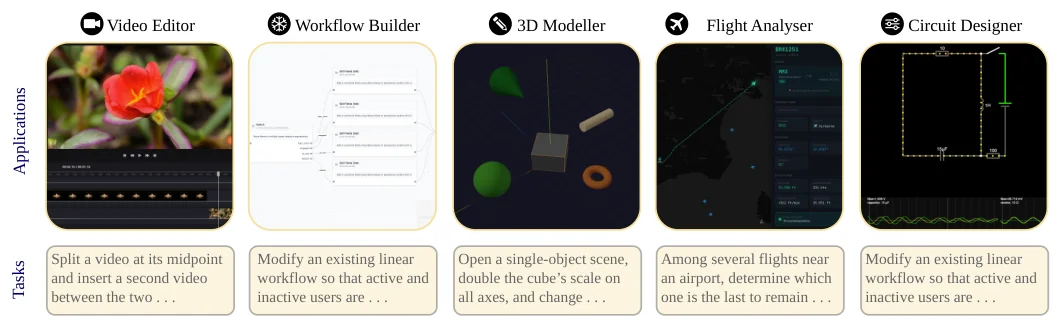
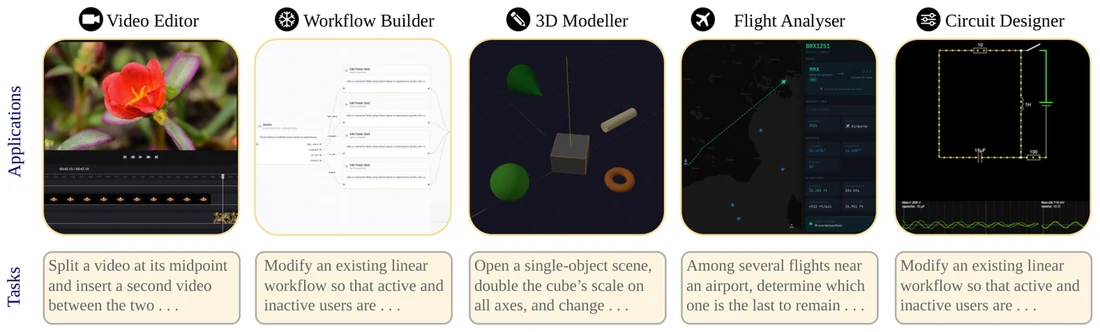
Replace thumbnail popups with whole paper figures
Each paper now shows one complete figure, rendered from the PDF at 300 dpi
and drawn at its natural shape (no cropping). The TL;DR popups and the
script behind them are gone.

diff --git a/index.html b/index.html
@@ -20,7 +20,6 @@
   <link rel="icon" href="assets/img/favicon-32.png" sizes="32x32" type="image/png">
   <link rel="apple-touch-icon" href="assets/img/apple-touch-icon.png">
   <link rel="stylesheet" href="css/style.css">
-  <script src="js/site.js" defer></script>
 
   <script type="application/ld+json">
   {
@@ -133,16 +132,14 @@
         <p class="note">
           Selected publications. * Equal contribution. Full list on
           <a href="https://scholar.google.com/citations?user=b0aneOsAAAAJ&amp;hl=en" target="_blank" rel="noopener">Google Scholar</a>.
-          Click a figure for a short summary.
         </p>
 
         <!--
           To add a paper: copy one <li class="pub"> block and keep the list newest first.
           - Mark yourself in the author list with <span class="me">S. Padarha</span>.
           - The venue goes in <span class="venue"> on the links line.
-          - Images: a 4:3 thumbnail (NAME-thumb.webp, 480 × 360) and the full figure (NAME.webp) in assets/papers/.
-          - The thumbnail button's data-dialog must match the id of the <dialog> below it.
-          - TL;DR: at most two sentences. Key takeaway: one.
+          - Figure: one whole figure from the paper in assets/papers/NAME.webp (≤ 1100 px wide).
+            It is shown at its natural shape, no cropping.
         -->
         <ol class="pubs">
 
@@ -158,18 +155,9 @@
                 <a href="https://oxrml.com/agent-slr" target="_blank" rel="noopener">Website</a>
               </p>
             </div>
-            <button class="pub-thumb" type="button" data-dialog="tldr-agentslr" aria-label="Show summary">
-              <img src="assets/papers/agentslr-thumb.webp" width="480" height="360" loading="lazy" alt="">
-            </button>
-            <dialog class="pub-dialog" id="tldr-agentslr" aria-labelledby="tldr-agentslr-title">
-              <div class="dialog-body">
-                <button class="dialog-close" type="button" aria-label="Close">&times;</button>
-                <p class="dialog-title" id="tldr-agentslr-title">Evaluating AI-based Scientific Knowledge Synthesis with Epidemiological Systematic Reviews</p>
-                <img src="assets/papers/agentslr.webp" width="1124" height="612" loading="lazy" alt="The six stages of the AgentSLR workflow: article search and retrieval, title and abstract screening, PDF-to-markdown conversion, full-text screening, data extraction and report generation.">
-                <p><span class="label">TL;DR</span> Five frontier LLMs take on the full systematic-review pipeline for WHO priority pathogens, checked against expert labels on 16,248 articles. The pipeline finishes in about 20 hours against roughly 385 for a manual review, but no model wins every stage and data extraction stays the weak link.</p>
-                <p><span class="label">Key takeaway</span> LLMs can compress weeks of evidence synthesis into a day, but not yet without an expert in the loop.</p>
-              </div>
-            </dialog>
+            <figure class="pub-fig">
+              <img src="assets/papers/agentslr.webp" width="680" height="692" loading="lazy" alt="Bar chart of systematic review completion time: about 385 hours for humans against about 20 hours for AgentSLR.">
+            </figure>
           </li>
 
           <li class="pub">
@@ -182,18 +170,9 @@
                 <a href="https://github.com/Yushi-Y/RL-search-align" target="_blank" rel="noopener">Code</a>
               </p>
             </div>
-            <button class="pub-thumb" type="button" data-dialog="tldr-rl-search" aria-label="Show summary">
-              <img src="assets/papers/agentic-rl-search-thumb.webp" width="480" height="360" loading="lazy" alt="">
-            </button>
-            <dialog class="pub-dialog" id="tldr-rl-search" aria-labelledby="tldr-rl-search-title">
-              <div class="dialog-body">
-                <button class="dialog-close" type="button" aria-label="Close">&times;</button>
-                <p class="dialog-title" id="tldr-rl-search-title">Agentic Reinforcement Learning for Search Misaligns Instruction-Tuning</p>
-                <img src="assets/papers/agentic-rl-search.webp" width="1268" height="456" loading="lazy" alt="Diagnosis, mechanism and mitigation: RL-trained search models issue harmful searches under a search trigger, RL shifts query representations toward a harmful direction, and a projection penalty during RL restores safety.">
-                <p><span class="label">TL;DR</span> Train an instruction-tuned model to search with reinforcement learning and its refusals turn brittle: nudge it to search first and it chains harmful queries, cutting search safety by more than two-thirds. The damage traces to one direction inside the model, and penalising it during training restores safety at no cost to accuracy.</p>
-                <p><span class="label">Key takeaway</span> Teaching a model to use tools can quietly undo its safety training, but the fix is cheap.</p>
-              </div>
-            </dialog>
+            <figure class="pub-fig">
+              <img src="assets/papers/agentic-rl-search.webp" width="1100" height="394" loading="lazy" alt="Diagnosis, mechanism and mitigation: RL-trained search models issue harmful searches under a search trigger, RL shifts their queries toward a harmful direction, and a penalty during RL restores safety.">
+            </figure>
           </li>
 
           <li class="pub">
@@ -208,18 +187,9 @@
                 <a href="https://huggingface.co/spaces/Snowflake/MADQA-Leaderboard" target="_blank" rel="noopener">Leaderboard</a>
               </p>
             </div>
-            <button class="pub-thumb" type="button" data-dialog="tldr-madqa" aria-label="Show summary">
-              <img src="assets/papers/madqa-thumb.webp" width="480" height="360" loading="lazy" alt="">
-            </button>
-            <dialog class="pub-dialog" id="tldr-madqa" aria-labelledby="tldr-madqa-title">
-              <div class="dialog-body">
-                <button class="dialog-close" type="button" aria-label="Close">&times;</button>
-                <p class="dialog-title" id="tldr-madqa-title">Strategic Navigation or Stochastic Search? How Agents and Humans Reason Over Document Collections</p>
-                <img src="assets/papers/madqa.webp" width="976" height="731" loading="lazy" alt="Accuracy against step limit for humans, Gemini 3 Pro, Claude Sonnet 4.5 and GPT-5. Humans start far higher; agents catch up only with many more search steps.">
-                <p><span class="label">TL;DR</span> The best AI agents now match humans at answering questions across 800 real PDFs. But they get there by brute-force searching rather than planning, solve different questions from people and stall almost 20 percent short of the best possible score.</p>
-                <p><span class="label">Key takeaway</span> Matching human accuracy is not the same as reasoning like a human.</p>
-              </div>
-            </dialog>
+            <figure class="pub-fig">
+              <img src="assets/papers/madqa.webp" width="905" height="674" loading="lazy" alt="Accuracy against step limit for humans, Gemini 3 Pro, Claude Sonnet 4.5 and GPT-5. Humans start far higher; agents catch up only with more search steps.">
+            </figure>
           </li>
 
           <li class="pub">
@@ -232,18 +202,9 @@
                 <a href="https://gauntlet-landing-page.vercel.app/" target="_blank" rel="noopener">Website</a>
               </p>
             </div>
-            <button class="pub-thumb" type="button" data-dialog="tldr-gauntlet" aria-label="Show summary">
-              <img src="assets/papers/gauntlet-thumb.webp" width="480" height="360" loading="lazy" alt="">
-            </button>
-            <dialog class="pub-dialog" id="tldr-gauntlet" aria-labelledby="tldr-gauntlet-title">
-              <div class="dialog-body">
-                <button class="dialog-close" type="button" aria-label="Close">&times;</button>
-                <p class="dialog-title" id="tldr-gauntlet-title">Running the Gauntlet: Challenging Agentic Tasks</p>
-                <img src="assets/papers/gauntlet.webp" width="1062" height="328" loading="lazy" alt="Screenshots of the five GauntletBench applications: Video Editor, Workflow Builder, 3D Modeller, Flight Analyser and Circuit Designer, each with an example task.">
-                <p><span class="label">TL;DR</span> Frontier agents were dropped into five unfamiliar professional apps, from a video editor to a circuit designer. At launch the best one solved 28.2 percent of tasks against over 80 percent for non-expert humans; three months later, GPT-6 Astra hit 83.0 percent.</p>
-                <p><span class="label">Key takeaway</span> Agents are learning unfamiliar tools fast, and benchmarks now age in months, not years.</p>
-              </div>
-            </dialog>
+            <figure class="pub-fig">
+              <img src="assets/papers/gauntlet.webp" width="1100" height="332" loading="lazy" alt="The five GauntletBench applications (Video Editor, Workflow Builder, 3D Modeller, Flight Analyser and Circuit Designer), each with an example task.">
+            </figure>
           </li>
 
           <li class="pub">
@@ -257,18 +218,9 @@
                 <a href="https://github.com/shreyansh-2003/PolyVis-Multilingual-Multimodal" target="_blank" rel="noopener">Code</a> -->
               </p>
             </div>
-            <button class="pub-thumb" type="button" data-dialog="tldr-polyvis" aria-label="Show summary">
-              <img src="assets/papers/polyvis-thumb.webp" width="480" height="360" loading="lazy" alt="">
-            </button>
-            <dialog class="pub-dialog" id="tldr-polyvis" aria-labelledby="tldr-polyvis-title">
-              <div class="dialog-body">
-                <button class="dialog-close" type="button" aria-label="Close">&times;</button>
-                <p class="dialog-title" id="tldr-polyvis-title">Evaluating LLM-as-a-Judge under Multilingual, Multimodal and Multi-domain Constraints</p>
-                <img src="assets/papers/polyvis.webp" width="1123" height="717" loading="lazy" alt="The PolyVis pipeline: preference datasets are machine-translated into 11 languages, filtered with quality metrics and combined into the benchmark, with an example safety item shown in English and Arabic.">
-                <p><span class="label">TL;DR</span> LLM judges, which grade other models during post-training, were tested across 12 languages on image-and-text tasks. They catch hallucinations with up to 95.2 percent accuracy but judge reasoning at close to a coin toss, and the best judge changes with the language and the task.</p>
-                <p><span class="label">Key takeaway</span> There is no universally good judge, so judges should be evaluated by language and task.</p>
-              </div>
-            </dialog>
+            <figure class="pub-fig">
+              <img src="assets/papers/polyvis.webp" width="1100" height="905" loading="lazy" alt="Four panels comparing each judge model's accuracy in English and in other languages across three tasks.">
+            </figure>
           </li>
 
           <li class="pub">
@@ -280,18 +232,9 @@
                 <a href="https://doi.org/10.1051/mbcb/2025008" target="_blank" rel="noopener">Paper</a>
               </p>
             </div>
-            <button class="pub-thumb" type="button" data-dialog="tldr-molars" aria-label="Show summary">
-              <img src="assets/papers/impacted-molars-thumb.webp" width="480" height="360" loading="lazy" alt="">
-            </button>
-            <dialog class="pub-dialog" id="tldr-molars" aria-labelledby="tldr-molars-title">
-              <div class="dialog-body">
-                <button class="dialog-close" type="button" aria-label="Close">&times;</button>
-                <p class="dialog-title" id="tldr-molars-title">Fully Automated Deep Learning Framework for Detection and Classification of Impacted Mandibular Third Molars in Panoramic Radiographs</p>
-                <img src="assets/papers/impacted-molars.webp" width="1337" height="601" loading="lazy" alt="Pipeline diagram: panoramic X-rays are pre-processed, a VGG16 model detects third molars, YOLOv7 extracts the region of interest, and a ResNet50 model classifies the type of impaction.">
-                <p><span class="label">TL;DR</span> A three-stage deep learning pipeline reads panoramic X-rays, finds impacted wisdom teeth with 93.5 percent accuracy and classifies their angle with 92.2 percent accuracy. Built with clinicians in Malaysia and the Philippines, it is now used by dental schools.</p>
-                <p><span class="label">Key takeaway</span> A routine, error-prone step in planning wisdom-tooth surgery can be automated reliably.</p>
-              </div>
-            </dialog>
+            <figure class="pub-fig">
+              <img src="assets/papers/impacted-molars.webp" width="1000" height="1058" loading="lazy" alt="Panoramic X-ray before and after processing, with the detected wisdom teeth labelled vertical and distoangular.">
+            </figure>
           </li>
 
         </ol>

diff --git a/css/style.css b/css/style.css
@@ -14,7 +14,6 @@
   --accent: #1f4e8c;
   --accent-hover: #0f2f5c;
   --venue: #8c2f39;
-  --dialog-bg: #ffffff;
 
   --maxw: 52rem;
   --font: -apple-system, BlinkMacSystemFont, "Segoe UI", Roboto, "Helvetica Neue",
@@ -34,7 +33,6 @@
     --accent: #8ab4f8;
     --accent-hover: #b4cffb;
     --venue: #f09aa3;
-    --dialog-bg: #1a1a1a;
   }
 }
 
@@ -332,10 +330,10 @@ h3 {
   padding: 0;
 }
 
-/* Text on the left, clickable thumbnail on the right, TL;DR panel below both */
+/* Text on the left, the paper's figure on the right */
 .pub {
   display: grid;
-  grid-template-columns: minmax(0, 1fr) 9.5rem;
+  grid-template-columns: minmax(0, 1fr) 15rem;
   gap: 0 1.5rem;
   align-items: start;
   padding: 1.25rem 0;
@@ -391,125 +389,36 @@ h3 {
   font-weight: 650;
 }
 
-.pub-thumb {
+/* Whole figure at its natural shape: no cropping, no letterboxing. Tall figures are
+   capped in height (and so drawn narrower) to keep rows compact. */
+.pub-fig {
+  margin: 0.2rem 0 0;
+}
+
+.pub-fig img {
   display: block;
-  width: 100%;
-  margin-top: 0.2rem;
-  padding: 0;
+  width: auto;
+  height: auto;
+  max-width: 100%;
+  max-height: 12.5rem;
+  margin-left: auto;
   border: 1px solid var(--rule);
   border-radius: 6px;
   background: #fff;
-  overflow: hidden;
-  cursor: pointer;
-  position: relative;
-}
-
-.pub-thumb img {
-  display: block;
-  width: 100%;
-  aspect-ratio: 4 / 3;
-  object-fit: contain;
-}
-
-/* "TL;DR" appears over the thumbnail on hover/focus */
-.pub-thumb::after {
-  content: "TL;DR";
-  position: absolute;
-  inset: 0;
-  display: grid;
-  place-items: center;
-  background: rgba(17, 19, 23, 0.55);
-  color: #fff;
-  font-size: 0.85rem;
-  font-weight: 600;
-  letter-spacing: 0.04em;
-  opacity: 0;
-  transition: opacity 0.15s ease;
-}
-
-.pub-thumb:hover::after,
-.pub-thumb:focus-visible::after {
-  opacity: 1;
-}
-
-/* Popup with the full figure, TL;DR and key takeaway (native <dialog>) */
-.pub-dialog {
-  width: min(46rem, calc(100vw - 2rem));
-  max-height: calc(100vh - 2rem);
-  padding: 0;
-  border: 1px solid var(--rule);
-  border-radius: 10px;
-  background: var(--dialog-bg);
-  color: var(--fg);
-  box-shadow: 0 24px 64px rgba(0, 0, 0, 0.28);
-}
-
-.pub-dialog::backdrop {
-  background: rgba(0, 0, 0, 0.55);
-}
-
-/* Padding lives here, not on <dialog>, so a click on the dialog itself means the backdrop */
-.dialog-body {
-  position: relative;
-  padding: 1.4rem 1.5rem 0.6rem;
-}
-
-.dialog-close {
-  position: absolute;
-  top: 0.55rem;
-  right: 0.6rem;
-  width: 2rem;
-  height: 2rem;
-  padding: 0;
-  border: 0;
-  border-radius: 6px;
-  background: none;
-  color: var(--muted);
-  font-size: 1.5rem;
-  line-height: 1;
-  cursor: pointer;
-}
-
-.dialog-close:hover {
-  color: var(--fg);
-}
-
-.dialog-title {
-  margin: 0 2.25rem 1rem 0;
-  font-size: 1.02rem;
-  font-weight: 600;
-  line-height: 1.4;
-}
-
-.dialog-body img {
-  display: block;
-  width: 100%;
-  margin-bottom: 1.1rem;
-  border: 1px solid var(--rule);
-  border-radius: 6px;
-  background: #fff;
-}
-
-.dialog-body p {
-  font-size: 0.97rem;
-  line-height: 1.6;
-  margin-bottom: 0.85rem;
-}
-
-.dialog-body .label {
-  color: var(--venue);
-  font-weight: 700;
-  margin-right: 0.3rem;
-}
-
-body:has(.pub-dialog[open]) {
-  overflow: hidden;
 }
 
 @media (max-width: 560px) {
   .pub {
-    grid-template-columns: minmax(0, 1fr) 5.75rem;
-    gap: 0 0.9rem;
+    grid-template-columns: 1fr;
+  }
+
+  .pub-fig {
+    margin-top: 0.8rem;
+  }
+
+  .pub-fig img {
+    max-height: 14rem;
+    margin-left: 0;
   }
 }
 
